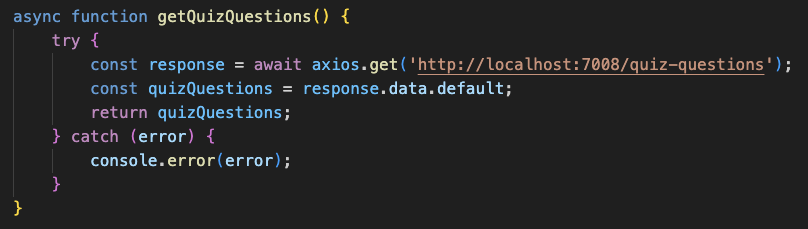
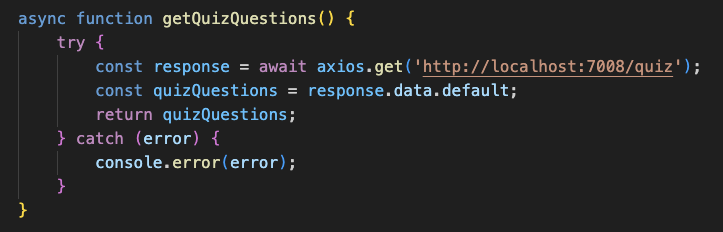
renamed a path and updated readme accordingly

diff --git a/server/server.js b/server/server.js
@@ -17,7 +17,7 @@ app.get('/', (req, res) => {
     res.json({mssg: 'Welcome to microservice A'});
 })
 
-app.get('/quiz-questions', (req, res) => {
+app.get('/quiz', (req, res) => {
     res.json(quizQuestions);
 });
 

diff --git a/README.md b/README.md
@@ -36,7 +36,7 @@ The server should be up and running on local host port 7008
 
 ## Calling Microservice A
 ### GET Request for Quiz Question
-By submitting a GET request to the /quiz-questions path, the client will receive a JSON object containing each of the questions and their associated answer choices.
+By submitting a GET request to the /quiz path, the client will receive a JSON object containing each of the questions and their associated answer choices.
 
 That JSON object is formatted like so:
 ![quiz questions json](./quiz-questions-json.png)
